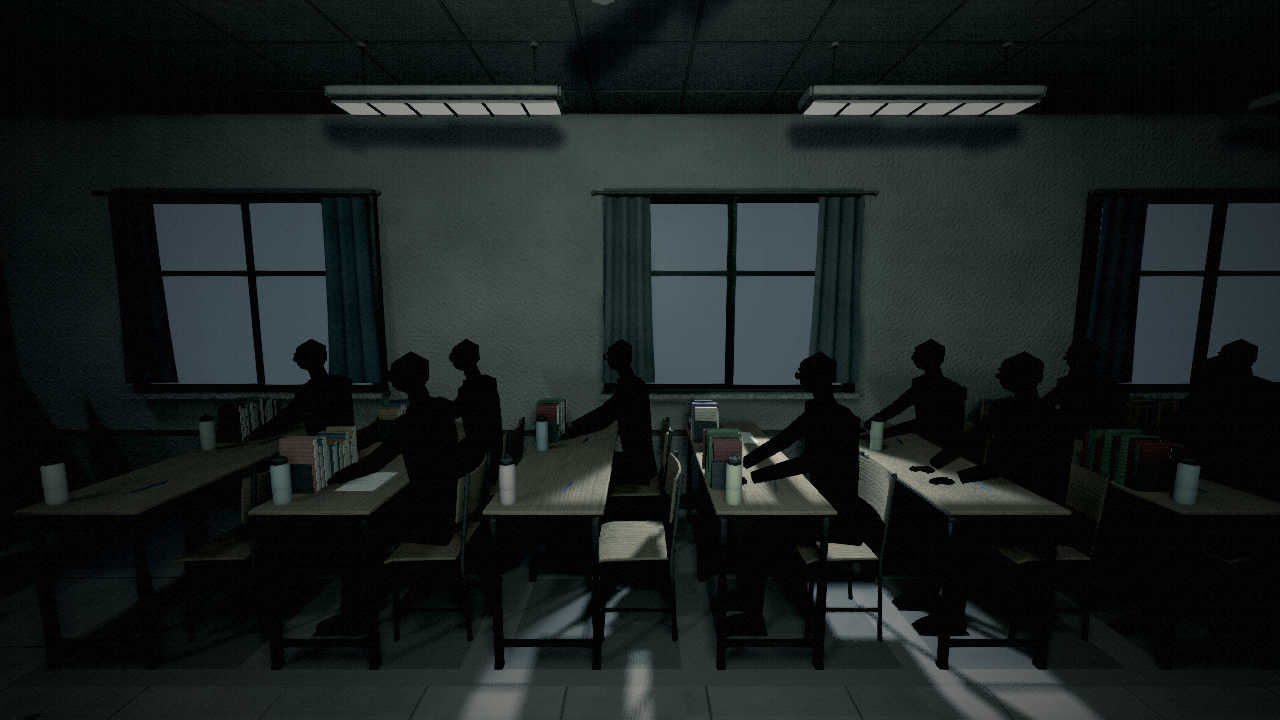
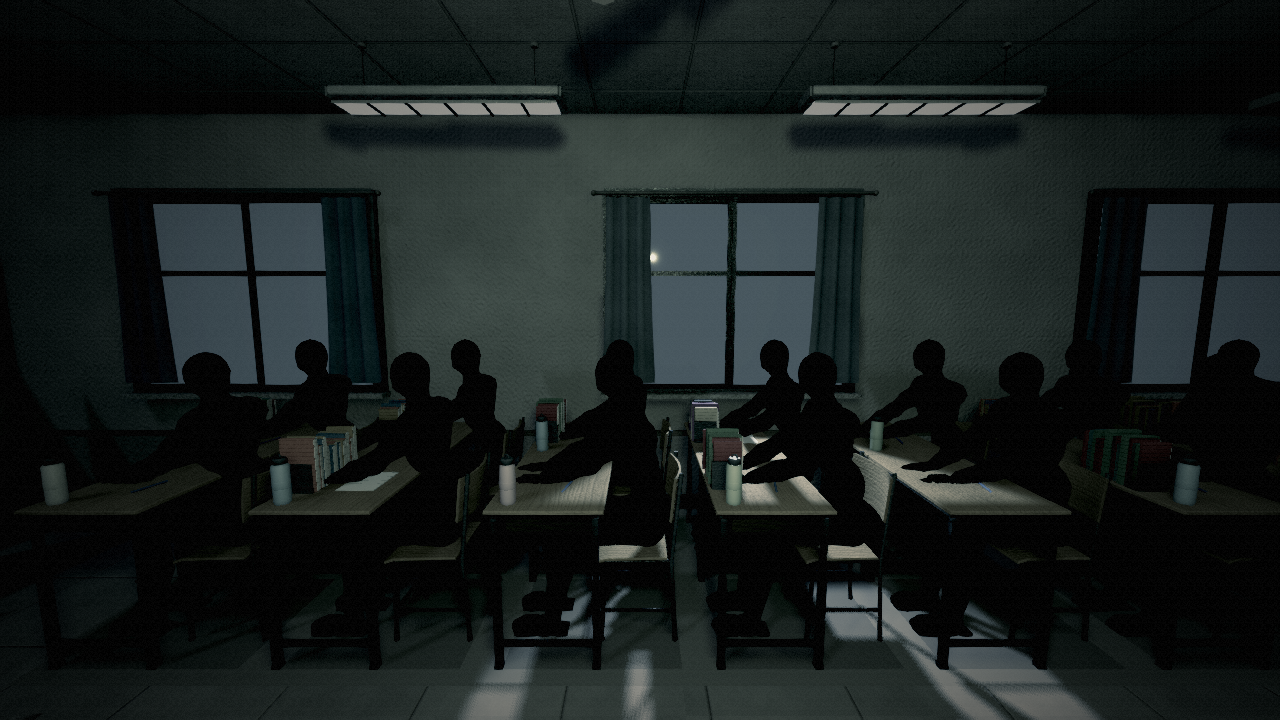
feat: 场景材质质感——墙与天花板恢复哑光，精细档起按旧版物理换算；穿模检查记录；手不重做
Claude-Session: https://claude.ai/code/session_011CA8sKUktv8E4n3BVTGGWT

diff --git a/docs/plan/建模与光影优化.md b/docs/plan/建模与光影优化.md
@@ -31,9 +31,9 @@
 | 3 重建工具 | `tools/remodel/`：旧版基本体采集、距离场平滑并集、等值面、法线、减面、GLB 输出 | 已完成：`capture_primitives.py`（旁听旧版 `figGeo()` 的基本体调用，六种人形各 57–66 个，入库在 `primitives/`）、`remodel.py`（见 `tools/remodel/README.md`）。原计划写的「采集后直接融合」之外多了两处处理：重叠处的鼓胀补偿；头上的眉骨、鼻子、耳朵不参加融合（融在一起会在脸上挤出一个凹坑，与「无脸」的选择相悖） |
 | 4 普通人形 | person、teacher、sit 三种换成新网格；同学、老师、检查队伍、分镜人群随之更新 | 已完成：每种约 1 万三角面（旧模型约 1700），导入器生成 LOD；身高与旧模型相差不超过 0.7 cm，肩宽多约 3 cm（手臂与躯干融合处）、坐姿前后多约 4 cm（手与鞋尖的位置取自旧版 `figGeo()`，比模型包里的版本靠前一点）；坐姿的手最低点 0.774 m，仍在课桌面（0.74 m）之上。调用方式不变，黑色剪影仍是不受光的单色。截图 02–06 |
 | 5 巡察者与怪异人形 | tall、roam、neck 与巡察者（老师体型 ×1.12＋原有装备）换成新网格 | 已完成：tall／roam／neck 身高与旧模型相差不超过 0.7 cm；巡察者身体换成新的老师网格 ×1.12、近黑色，外套与帽子沿用原网格。巡察者的碰撞体、视线与判定都在规则层，不读模型，没有变 |
-| 6 第一人称的手 | 手电、雨伞、手机三种握持 × 左右手换成新网格：手指与手掌连成一体，袖口、指甲保留颜色 | 未开始 |
-| 7 场景材质质感 | 地面、课桌、金属、玻璃的粗糙度与高光按类调整 | 未开始 |
-| 8 验收 | 近景对照截图；穿模检查（新旧人形包围盒对照、坐姿与课桌、手与物件）；全量回归；文档与索引 | 未开始 |
+| 6 第一人称的手 | 手电、雨伞、手机三种握持 × 左右手 | 不重做（用户 2026-11-10 确认）：对照后发现现有的手不是分段拼的，而是旧版模型包里整块皮肤、带指甲的雕刻模型，观感已经够用，用距离场重建反而会丢细节。模型文件没有改动 |
+| 7 场景材质质感 | 地面、课桌、金属、玻璃的粗糙度与高光按类调整 | 已完成：`game/presentation/world/campus/scene_materials.gd`，加载房间与预览模型时按画质应用，不动几何与贴图。①导出工具把旧版「没有高光」的材质（墙、天花板、黑板、窗帘，shininess 0）误写成半光泽（粗糙度 0.70），所有画质档都改回哑光（0.96，与旧版「真实」档一致）；②精细、超精细两档，其余材质改用旧版「真实」档自己的物理换算（粗糙度 = 1 − √(shininess／90)）：地砖 0.74、水磨石 0.70、木 0.79、塑料 0.61、金属 0.33、玻璃 0.05；金属度只给 0.15（旧版是 0.7，但这两档没有可反射的明亮环境，给多了柜子会发黑）；③流畅、均衡不变；真实档本来就是旧版的物理材质，不动。画面上的差别不大：这游戏整体很暗，主要是墙和天花板不再有灯的反光斑。截图 07 |
+| 8 验收 | 近景对照截图；穿模检查；全量回归；文档与索引 | 见下方「验收记录」 |
 
 ## 约束
 
@@ -48,3 +48,11 @@
 - 截图 `pictures/建模与光影优化/`：人形新旧并排、教室里的同学、巡察者、三种握持的手、材质与窗影前后对照。
 - 测试：人形种类与身高、包围盒对照、手的挂点、各画质档的日光与光晕参数；`python tools/check.py` 与 `--mode windowed` 全量回归。
 - 穿模检查按 CLAUDE.md（更新了建模才做）。
+
+## 验收记录
+
+- 穿模检查（2026-11-10，按 CLAUDE.md 更新了建模才做）：
+  - 人形只是画面节点，不带碰撞体；巡察者、同学的占位、视线与判定都在规则层，不读模型，所以可达性与卡位不受影响。
+  - 六种人形的包围盒与旧模型对照（`tests/suites/remodel.gd`）：身高相差不超过 0.7 cm；肩宽多 2–4 cm；站姿前后厚度相差不超过 1.1 cm；坐姿前后多 4 cm。
+  - 坐姿与课桌（截图 08、09，同一座位旧模型蓝、新模型橙）：手掌最低点 0.774 m，在桌面（0.74 m）之上；指尖比旧模型往前约 5 cm，到书堆前沿为止，目视没有插进书里；大腿、小腿与椅子的位置和旧模型一致。
+- 测试：新增 `remodel.test_figures`（22 项）、`render_quality.test_daylight_and_glow`、`render_quality.test_scene_materials`。

diff --git a/pictures/README.md b/pictures/README.md
@@ -70,4 +70,4 @@
 | [雨与蛾群](雨与蛾群) | 2026-11-08，Godot 4.6.3，Xvfb + Compatibility 软件渲染，`tools/capture/capture_weather.gd`：异象「下雨」的雨丝（线段）、落地水圈与积水；「蛾群」的身子加两片会扑的翅膀 |
 | [画质档](画质档) | 2026-11-08，Godot 4.6.3，Xvfb + Compatibility 软件渲染，`tools/capture/capture_tier.gd`：第 0 档（流畅）模型下的教学楼一楼教室 |
 | [界面审美与光影](界面审美与光影/) | 2026-11-09，Godot 4.6.3，Xvfb + Vulkan（Lavapipe）Forward+，1280×720，`tools/capture/capture_polish.gd`：设置「键位」页（录入中）；触屏布局编辑器（逐个控件、选中「交互」放大到 130 %、网格吸附）与默认触屏布局；光影按画质档对照（流畅／精细／真实的教室白天，流畅／真实的室外傍晚，真实的室外白天；同一时刻、同一机位，平均亮度相近）；新版界面：主菜单、暂停、游戏内界面（时间与状态卡、物品栏、点状准星）、设置画面页、背包 |
-| [建模与光影优化](建模与光影优化/) | 2026-11-10，Godot 4.6.3，Xvfb + Vulkan（Lavapipe）Forward+，1280×720：教室北窗的天光落在课桌与地面上（精细档）；开场教室（新人形、灯管不再过曝）；人形新旧对照（`build/dbg_fig.gd` 式的并排：路人、老师、高个子、长脖子、坐姿）与近景；里世界教室里同学的剪影 |
+| [建模与光影优化](建模与光影优化/) | 2026-11-10，Godot 4.6.3，Xvfb + Vulkan（Lavapipe）Forward+，1280×720：教室北窗的天光落在课桌与地面上（精细档）；开场教室（新人形、灯管不再过曝）；人形新旧对照（`build/dbg_fig.gd` 式的并排：路人、老师、高个子、长脖子、坐姿）与近景；里世界教室里同学的剪影；材质前后对照（走廊）；坐姿穿模检查的侧视与俯视（`build/` 下的临时脚本拍摄，蓝为旧模型、橙为新模型） |
